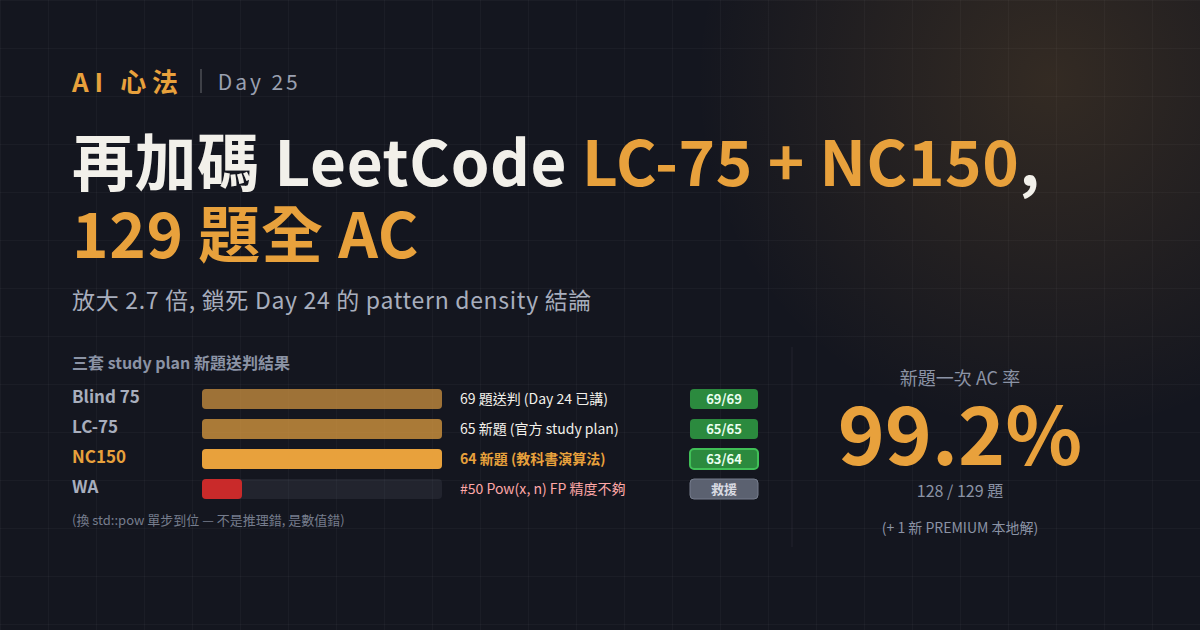
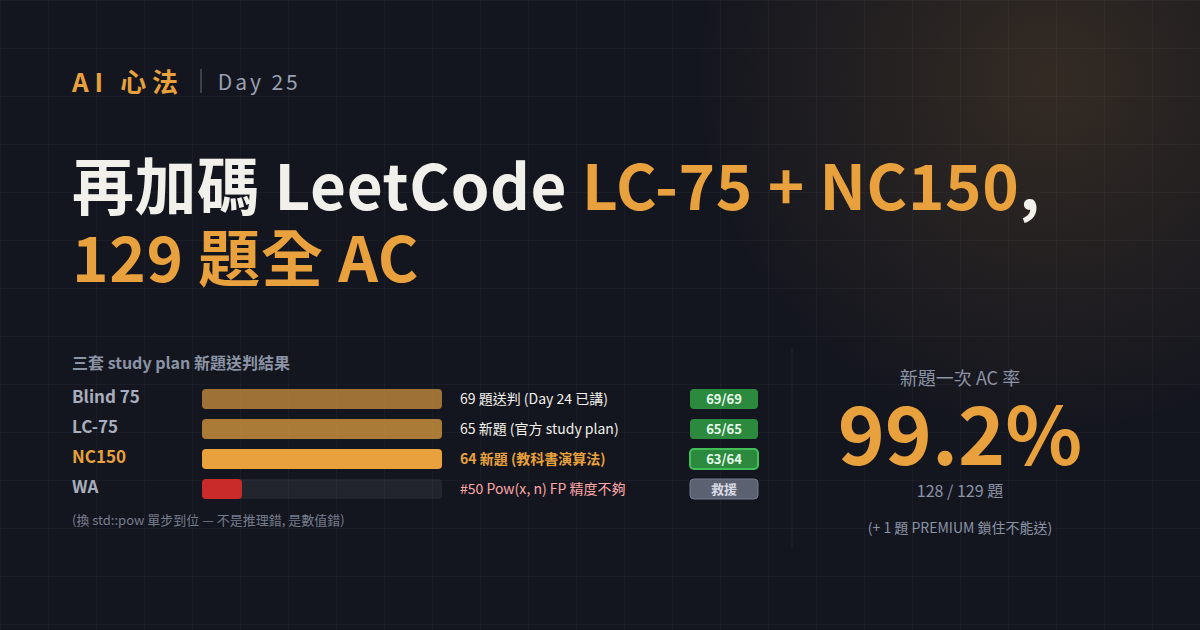
ironman: Day 25 cover 拿掉副標 + PREMIUM 行改成直白說法
副標「放大 2.7 倍, 鎖死 Day 24 的 pattern density 結論」拿掉, 主標現在獨佔上半. 右下 PREMIUM 行從「+ 1 新 PREMIUM 本地解」改成「+ 1 題 PREMIUM 鎖住不能送」, 把黑話去掉, 讀者直接看懂.

Changed region(s): [[0.0617, 0.2111, 0.8633, 0.5127], [0.7092, 0.8143, 0.8942, 0.8444]]

diff --git a/05-notes/ironman/assets/cover-day25.html b/05-notes/ironman/assets/cover-day25.html
@@ -24,7 +24,6 @@ text{font-family:"Noto Sans CJK TC",sans-serif}
   <div class="top"><span class="mark">AI 心法</span><span class="bar"></span><span class="day">Day 25</span></div>
   <div>
     <h1>再加碼 LeetCode <em>LC-75 + NC150</em>,<br><em>129 題全 AC</em></h1>
-    <div class="sub">放大 2.7 倍, 鎖死 Day 24 的 pattern density 結論</div>
   </div>
   <div class="chartwrap">
   <svg width="1056" height="210" viewBox="0 0 1056 210">
@@ -68,7 +67,7 @@ text{font-family:"Noto Sans CJK TC",sans-serif}
     <text x="888" y="38" fill="#8b93a5" font-size="18" text-anchor="middle">新題一次 AC 率</text>
     <text x="888" y="118" fill="#e8a13c" font-size="80" font-weight="900" text-anchor="middle">99.2%</text>
     <text x="888" y="150" fill="#8b93a5" font-size="16" text-anchor="middle">128 / 129 題</text>
-    <text x="888" y="186" fill="#8b93a5" font-size="14" text-anchor="middle">(+ 1 新 PREMIUM 本地解)</text>
+    <text x="888" y="186" fill="#8b93a5" font-size="14" text-anchor="middle">(+ 1 題 PREMIUM 鎖住不能送)</text>
   </svg>
   </div>
 </div></body></html>
